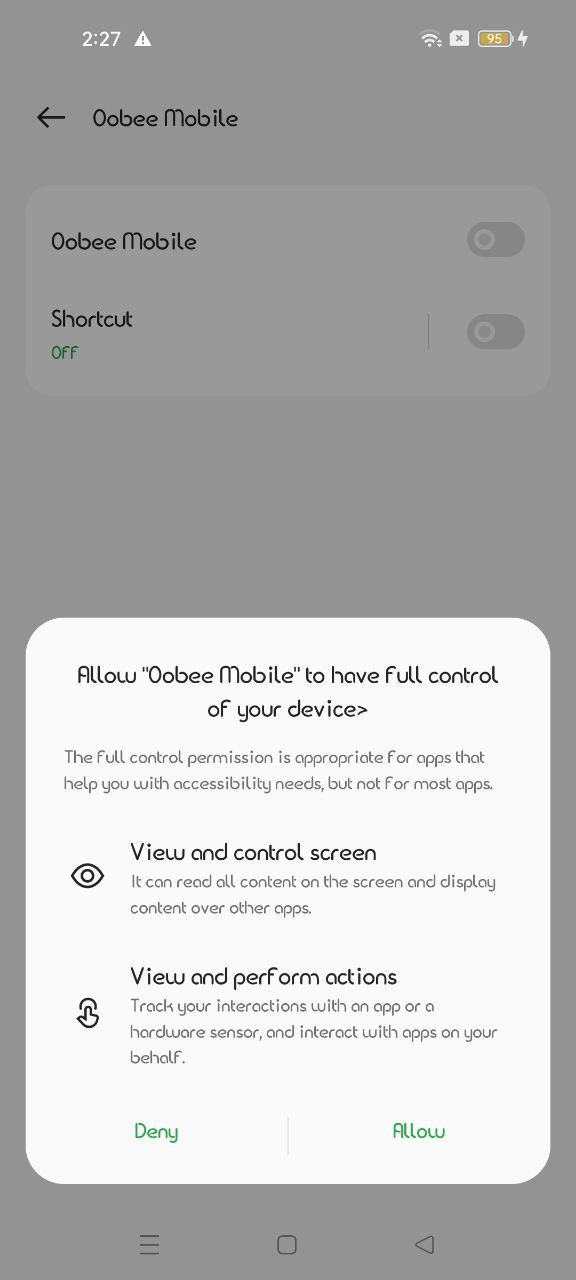
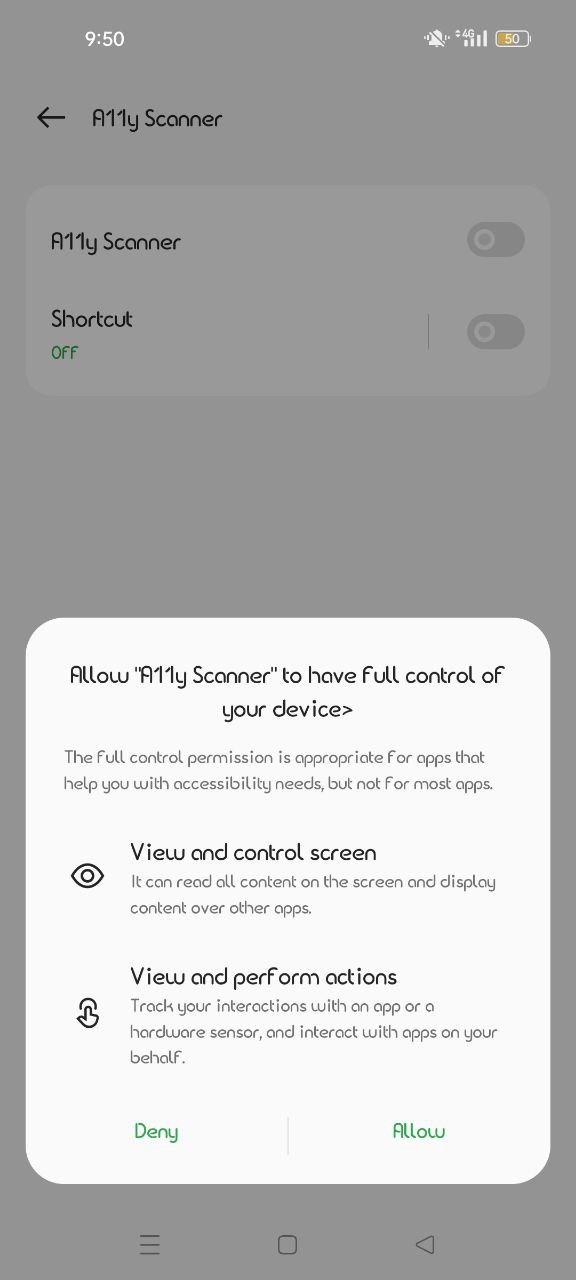
Revert "Edit_help_guide (#3)"
This reverts commit 5e3348067b49d3af531ba194b66f4dae956b2729.

diff --git a/a11y-guide/mobile/xiaomi.html b/a11y-guide/mobile/xiaomi.html
@@ -4,7 +4,7 @@
 <head>
   <meta charset="UTF-8">
   <meta name="viewport" content="width=device-width, initial-scale=1.0">
-  <title>Xiaomi Oobee Mobile Guide</title>
+  <title>Xiaomi Mobile A11y Guide</title>
 </head>
 
 <body>
@@ -12,35 +12,33 @@
   <hr />
   <section class="guide-container">
     <section class="step-container">
-      <p> Step 1: Go to app info </p>> Accessibility > Vision
+      <p> Step 1: Go to app info </p>
     </section>
     <section class="step-container">
-      <p> Step 2: Go to Settings > Additional settings </p>
-      <img src="./images/xiaomi/1.jpg" alt="Screenshot of Additional setting" />
+      <p> Step 2: Tap on the 3 dots </p>
     </section>
     <section class="step-container">
-      <p> Step 3: Go to Accessibility </p>
-      <img src="./images/xiaomi/2.jpg" alt="Screenshot of Accessibility" />
+      <p> Step 3: Enable "Allow restricted settings" </p>
+      <img src="./images/xiaomi/1.png" alt="Screenshot of where the Allow restricted settings toggle is" />
     </section>
     <section class="step-container">
-      <p> Step 4: Go to Downloaded apps </p>
-      <img src="./images/xiaomi/3.jpg" alt="Screenshot of Downloaded apps" />
+      <p> Step 4: You'll be asked for your passcode. </p>
     </section>
     <section class="step-container">
-      <p> Step 5: Click on "Oobee Mobile" </p>
-      <img src="./images/xiaomi/4.jpg" alt="Screenshot of Oobee Mobile button" />
+      <p> Step 5: Go to Settings > Additional settings > Accessibility > Vision </p>
     </section>
     <section class="step-container">
-      <p> Step 6: Turn on Oobee Mobile </p>
-      <img src="./images/xiaomi/5.jpg" alt="Screenshot of how to turn on Oobee Mobile" />
+      <p> Step 6: Turn on A11y Scanner </p>
+      <img src="./images/xiaomi/2.png" alt="Screenshot of how to turn on A11y Scanner" />
     </section>
     <section class="step-container">
       <p> Step 7: Accept the security prompt </p>
-      <img src="./images/xiaomi/6.jpg" alt="Screenshot of where the what the security prompt is" />
+      <img src="./images/xiaomi/3.png" alt="Screenshot of where the what the security prompt is" />
     </section>
     <section class="step-container">
-      <p> Step 8: Oobee Mobile security prompt is approved </p>
-      <img src="./images/xiaomi/7.jpg" alt="Screenshot of Oobee Mobile security prompt is approved" />
+      <p> Step 8: Go to app info. Turn off Battery Saver </p>
+      <img src="./images/xiaomi/4.png" alt="Screenshot of where the battery saver is" />
+      <img src="./images/xiaomi/5.png" alt="Screenshot of how to turn off battery saver" />
     </section>
   </section>
 </body>

diff --git a/a11y-guide/mobile/samsung.html b/a11y-guide/mobile/samsung.html
@@ -4,7 +4,7 @@
 <head>
   <meta charset="UTF-8">
   <meta name="viewport" content="width=device-width, initial-scale=1.0">
-  <title>Samsung Oobee Mobile Guide</title>
+  <title>Samsung Mobile A11y Guide</title>
 </head>
 
 <body>
@@ -13,24 +13,20 @@
   <section class="guide-container">
     <section class="step-container">
       <p> Step 1: Go to Settings > Accessibility > Installed apps </p>
-      <img src="./images/samsung/ss-1.png" alt="Screenshot of where the Accessibility setting is" />
-      <img src="./images/samsung/ss-2.png" alt="Screenshot of where the Installed apps setting is" />
+      <img src="./images/samsung/ss-1.jpg" alt="Screenshot of where the Accessibility setting is" />
+      <img src="./images/samsung/ss-2.jpg" alt="Screenshot of where the Installed apps setting is" />
     </section>
     <section class="step-container">
-      <p> Step 2: Click on the Oobee Mobile app </p>
-      <img src="./images/samsung/ss-3.png" alt="Screenshot to select the Oobee Mobile app setting" />
+      <p> Step 2: Click on the A11y Scanner app </p>
+      <img src="./images/samsung/ss-3.jpg" alt="Screenshot to select the A11y Scanner app setting" />
     </section>
     <section class="step-container">
       <p> Step 3: Enable the toggle beside “Off” </p>
-      <img src="./images/samsung/ss-4.png" alt="Screenshot to enable permission toggle" />
+      <img src="./images/samsung/ss-4.jpg" alt="Screenshot to enable permission toggle" />
     </section>
     <section class="step-container">
       <p> Step 4: Click “Allow” in the security prompt </p>
-      <img src="./images/samsung/ss-5.png" alt="Screenshot of security prompt" />
-    </section>
-    <section class="step-container">
-      <p> Step 5: Oobee Mobile security prompt is approved </p>
-      <img src="./images/samsung/ss-6.png" alt="Screenshot of Oobee Mobile security prompt is approved" />
+      <img src="./images/samsung/ss-5.jpg" alt="Screenshot of security prompt" />
     </section>
   </section>
 </body>

diff --git a/a11y-guide/mobile/google-pixel.html b/a11y-guide/mobile/google-pixel.html
@@ -4,7 +4,7 @@
 <head>
   <meta charset="UTF-8">
   <meta name="viewport" content="width=device-width, initial-scale=1.0">
-  <title>Google Pixel Oobee Mobile Guide</title>
+  <title>Google Pixel Mobile A11y Guide</title>
 </head>
 
 <body>
@@ -13,23 +13,19 @@
   <section class="guide-container">
     <section class="step-container">
       <p> Step 1: Go to Settings > Accessibility </p>
-      <img src="./images/pixel/ss-1.png" alt="Screenshot of where the Accessibility setting is" />
+      <img src="./images/pixel/ss-1.jpg" alt="Screenshot of where the Accessibility setting is" />
     </section>
     <section class="step-container">
-      <p> Step 2: Click on the Oobee Mobile app under Downloaded apps </p>
-      <img src="./images/pixel/ss-2.png" alt="Screenshot to choose the Oobee Mobile app" />
+      <p> Step 2: Click on the A11y Scanner app under Downloaded apps </p>
+      <img src="./images/pixel/ss-2.jpg" alt="Screenshot to choose the A11y Scanner app" />
     </section>
     <section class="step-container">
-      <p> Step 3: Enable the toggle beside “Use Oobee Mobile” </p>
-      <img src="./images/pixel/ss-3.png" alt="Screenshot to enable Use Oobee Mobile" />
+      <p> Step 3: Enable the toggle beside “Use A11y Scanner” </p>
+      <img src="./images/pixel/ss-3.jpg" alt="Screenshot to enable Use A11y Scanner" />
     </section>
     <section class="step-container">
       <p> Step 4: Click “Allow” in the security prompt </p>
-      <img src="./images/pixel/ss-4.png" alt="Screenshot of the security prompt" />
-    </section>
-    <section class="step-container">
-      <p> Step 5: Oobee Mobile security prompt is approved </p>
-      <img src="./images/pixel/ss-5.png" alt="Screenshot of the approved security prompt" />
+      <img src="./images/pixel/ss-4.jpg" alt="Screenshot of the security prompt" />
     </section>
   </section>
 </body>

diff --git a/a11y-guide/mobile/oppo.html b/a11y-guide/mobile/oppo.html
@@ -4,7 +4,7 @@
 <head>
   <meta charset="UTF-8">
   <meta name="viewport" content="width=device-width, initial-scale=1.0">
-  <title>Oppo Oobee Mobile Guide</title>
+  <title>Oppo Mobile A11y Guide</title>
 </head>
 
 <body>
@@ -20,20 +20,16 @@
       <img src="./images/oppo/O-2.jpg" alt="Screenshot of where the Additional Setting is" />
     </section>
     <section class="step-container">
-      <p> Step 3: Click on the Oobee Mobile under More </p>
-      <img src="./images/oppo/O-3.jpg" alt="Screenshot to enter Oobee Mobile Accessibility" />
+      <p> Step 3: Click on the Ally Scanner under More </p>
+      <img src="./images/oppo/O-3.jpg" alt="Screenshot to enter Ally Scanner Accessibility" />
     </section>
     <section class="step-container">
-       <p> Step 4: Enable the toggle beside of Oobee Mobile </p>
-       <img src="./images/oppo/O-4.jpg" alt="Screenshot to Enable Oobee Mobile Accessibility" />
+       <p> Step 4: Enable the toggle beside of Ally Scanner </p>
+       <img src="./images/oppo/O-4.jpg" alt="Screenshot to Enable Ally Scanner Accessibility" />
     </section>
     <section class="step-container">
       <p> Step 5: Click “Allow” in the security prompt </p>
       <img src="./images/oppo/O-5.jpg" alt="Screenshot of the security prompt" />
-    </section>
-    <section class="step-container">
-      <p> Step 6: Oobee Mobile security prompt is approved </p>
-      <img src="./images/oppo/O-6.jpg" alt="Screenshot of Oobee Mobile security prompt is approved" />
     </section>
   </section>
 </body>

diff --git a/a11y-guide/mobile/index.html b/a11y-guide/mobile/index.html
@@ -4,7 +4,7 @@
 <head>
   <meta charset="UTF-8">
   <meta name="viewport" content="width=device-width, initial-scale=1.0">
-  <title>Oobee Mobile Guide (Testing)</title>
+  <title>Mobile A11y Guide (Testing)</title>
   <style>
     body {
       margin: 0px !important;
@@ -101,8 +101,8 @@
 
 <body>
   <div id="site-header">
-    <img src="./images/a11y-logo.svg" alt="Oobee logo" />
-    <h2>Oobee Mobile Permissions Guide</h2>
+    <img src="./images/a11y-logo.svg" alt="A11y logo" />
+    <h2>Mobile A11y Permissions Guide</h2>
   </div>
   <div id="content-body">
     <div id="vendor-selector-container">

diff --git a/a11y-guide/mobile/learn-more.html b/a11y-guide/mobile/learn-more.html
@@ -4,7 +4,7 @@
 <head>
   <meta charset="UTF-8">
   <meta name="viewport" content="width=device-width, initial-scale=1.0">
-  <title>Oobee Mobile Guide - Android Accessibility Permissions</title>
+  <title>Mobile A11y Guide - Android Accessibility Permissions</title>
   <style>
     body {
       margin: 0px !important;
@@ -101,7 +101,7 @@
 
 <body>
   <div id="site-header">
-    <img src="./images/a11y-logo.svg" alt="Oobee logo" />
+    <img src="./images/a11y-logo.svg" alt="A11y logo" />
     <h2>Learn more about Android Accessibility Permissions</h2>
   </div>
   <div id="content-body">
